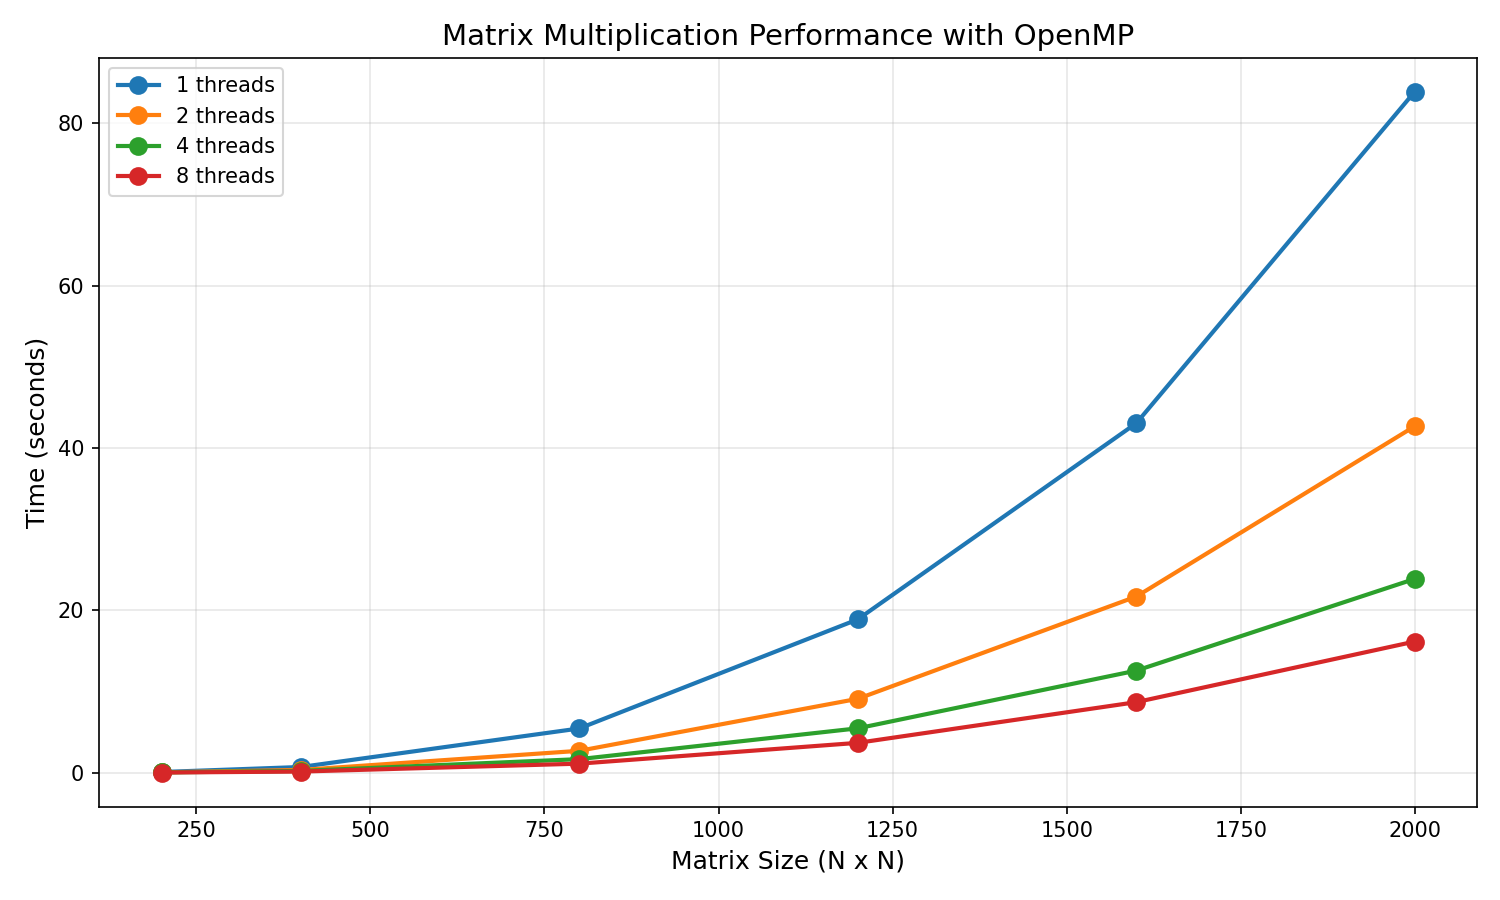
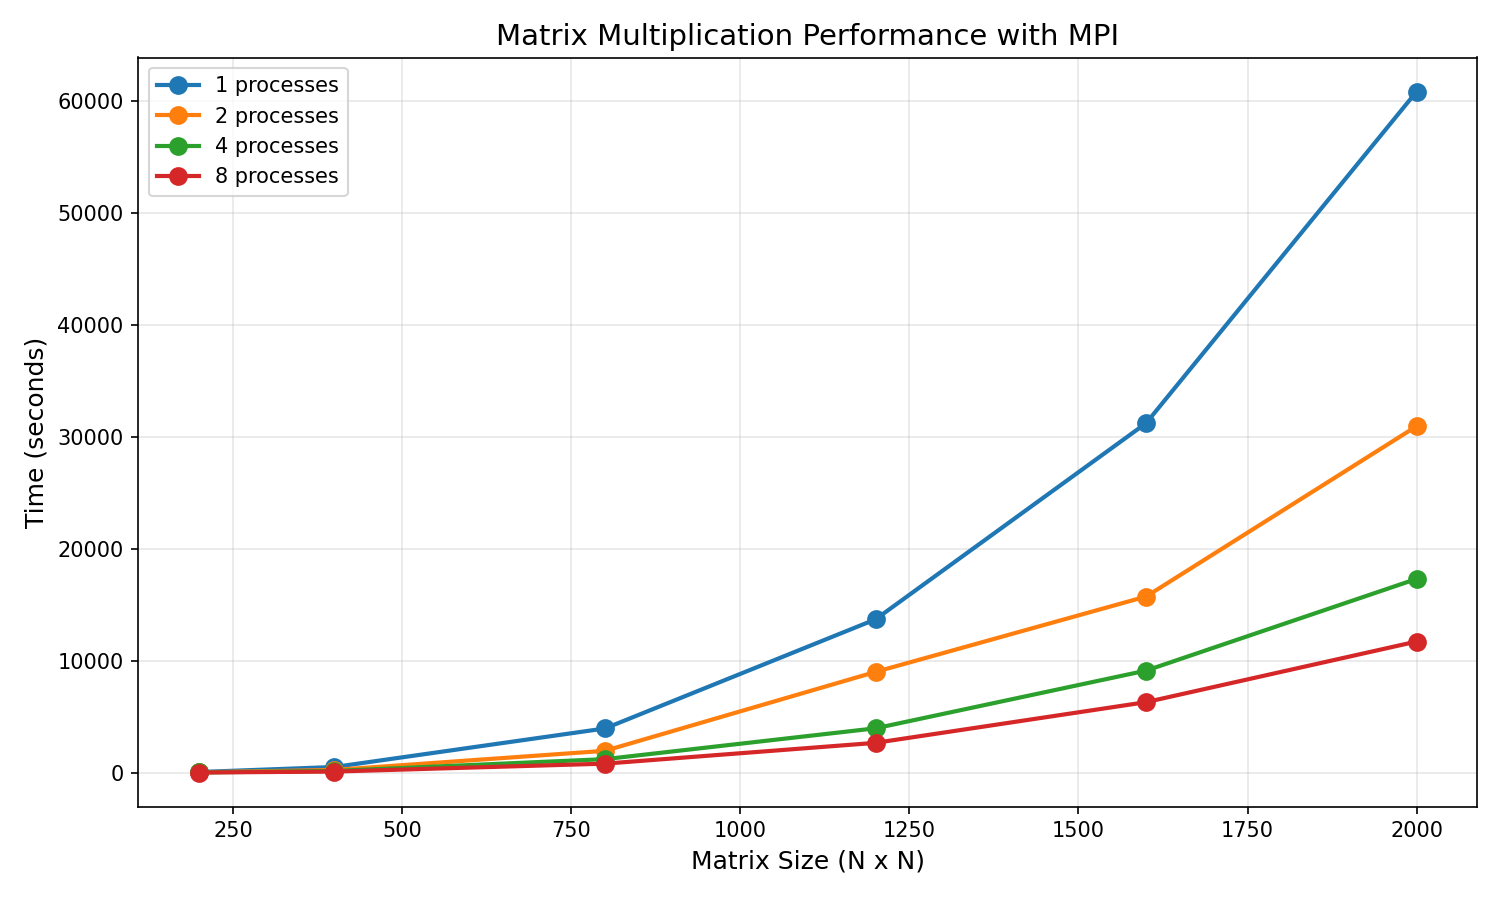
5я лабораторная

diff --git a/README.md b/README.md
@@ -1,22 +1,20 @@
 # Ny-Alotha
 Parallel_Proggraming
-# Лабораторная работа 3
-Я изменил программу на C++, которая загружает квадратные матрицы из файлов, перемножает их, сохраняет результат, добавив распараллеливание с помощью MPI, а так же болчное умножение для лучшей работы кэша процессора.
+# Лабораторная работа 5
+Я запустил программу, которая загружает квадратные матрицы из файлов, перемножает их, сохраняет результат, с распараллеливанием с помощью MPI
 Скрипт `matrix_mul_mpi.py` отвечает за создание матриц, работу с директориями, запуск программы на C++, вывод её результатов работы и визуализацию.
-# Запуск программы
-Ввести `python3 matrix_mul_mpi.py` в терминал.
 # Результаты исследования
 Запуск программы при исследовании производился с установлением размеров матриц в 200, 400, 800, 1200, 1600, 2000 элементов и 1, 2, 4, 8 потоков. Результат запусков приведён в таблице ниже:
 Время работы (мс)
 
 | Размер/потоки | 1 | 2 | 4 | 8 |
-|---------------|----|----|----|----|
-| 200           | 81,9 | 47,5 | 31,7 | 18,7 |
-| 400           | 701,4 | 336,0 | 213,0 | 139,6 |
-| 800           | 5447,5 | 2694,9 | 1668,8 | 1112,6 |
-| 1200          | 18890,9 | 9102,8 | 5466,4 | 3676,7 |
-| 1600          | 43057,9 | 21700,1 | 12575,6 | 8690,6 |
-| 2000          | 83916,7 | 42687,9 | 23878,1 | 16160,2 |
+|---------------|--------|--------|--------|--------|
+| 200           | 59.35  | 34.42  | 22.97  | 13.55  |
+| 400           | 508.26 | 243.48 | 154.35 | 101.16 |
+| 800           | 3947.46| 1952.83| 1209.28| 806.23 |
+| 1200          | 13688.33| 8996.23| 3961.16| 2664.28|
+| 1600          | 31201.38| 15724.71| 9112.75| 6297.54|
+| 2000          | 60809.20| 30933.26| 17302.97| 11710.29|
 
 Визуализация данных таблицы:
 ![Alt-текст](matrix_multiplication_time.png)
